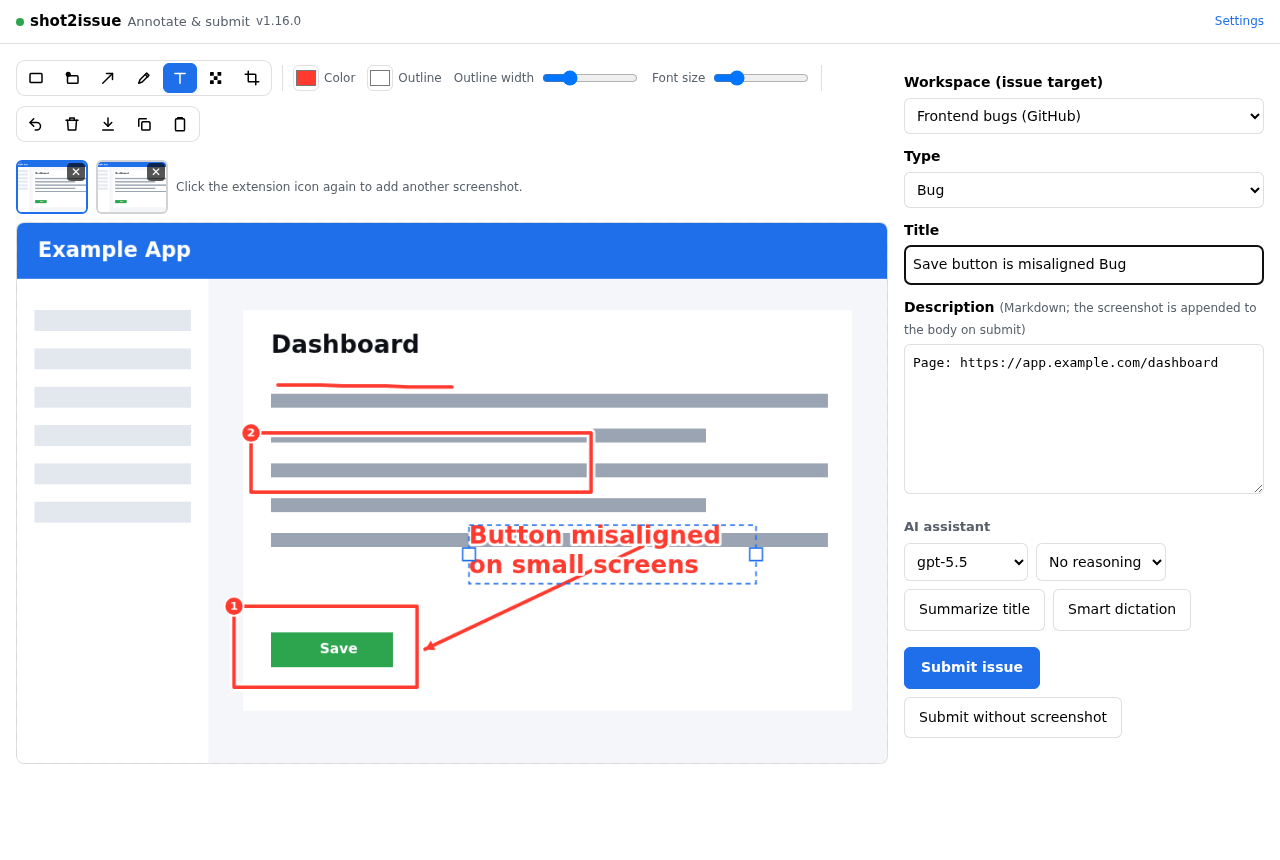
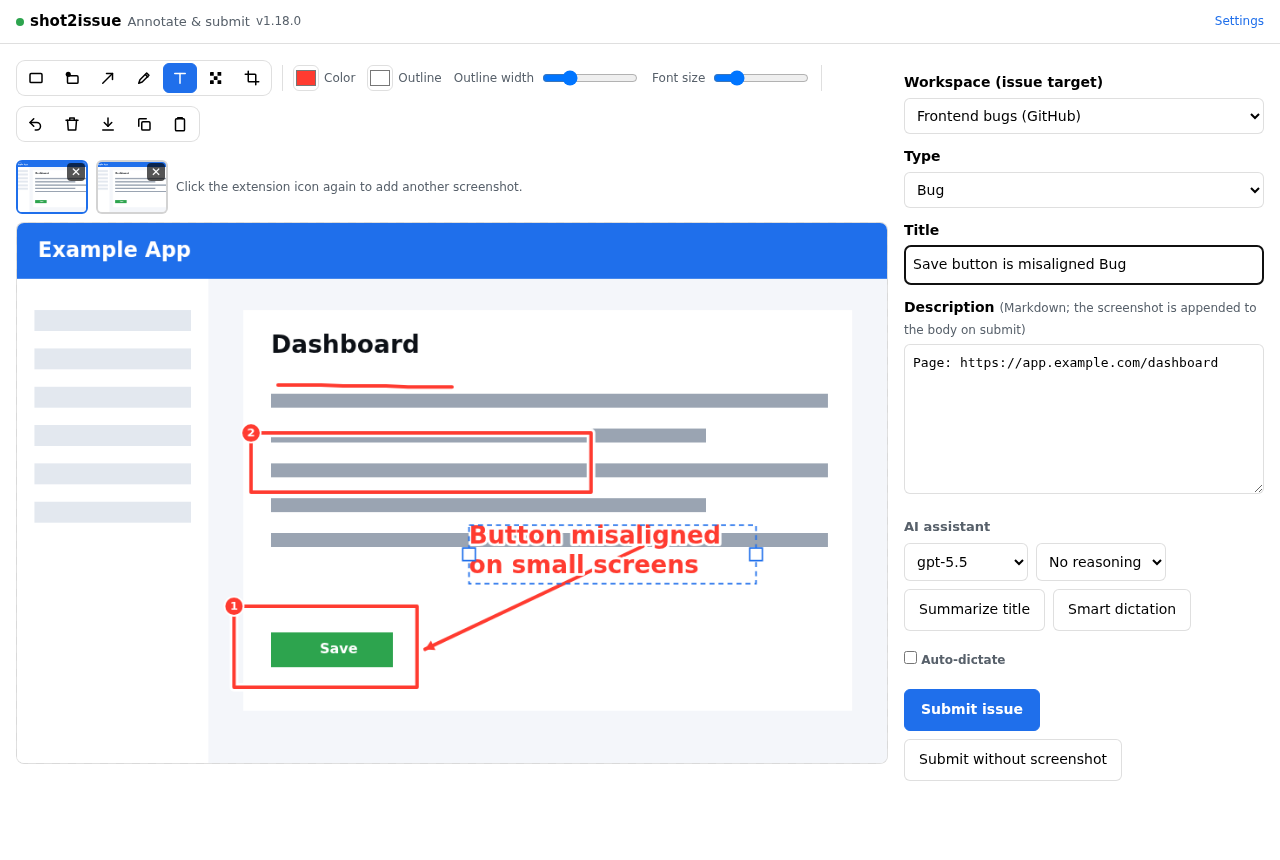
feat: auto-dictate, dictation language, commit-on-blur for the right column, and a popup first-click fix (v1.18.0)
Editor:
- "Auto-dictate" checkbox next to Smart dictation (remembered): when on, opening the
  dictation dialog starts recording immediately.
- Clicking anything in the right column now commits pending canvas edits first (flush an
  in-progress text box, deselect the active annotation) so nothing is left half-edited.
- The Generate button is disabled while the dictation box is empty.

Settings:
- New "Dictation language" picker (50+ Whisper languages + Auto-detect); the chosen
  language is sent to transcription for better accuracy. 'auto' lets the model detect.

Popup:
- Fixed "have to click twice": click listeners were bound only after an async config load,
  so the first click hit nothing. They are now bound synchronously.

Tests: 63 unit, 68 smoke. Screenshots regenerated.

Changed region(s): [[0.6875, 0.7256, 0.875, 0.907]]

diff --git a/src/editor.ts b/src/editor.ts
@@ -73,6 +73,7 @@ const els = {
   complaintGenerate: $('complaintGenerate') as HTMLButtonElement,
   complaintStatus: $('complaintStatus'),
   aiReasoning: $('aiReasoning') as HTMLSelectElement,
+  autoDictate: $('autoDictate') as HTMLInputElement,
   aiBubble: $('aiBubble'),
   aiBubbleStatus: $('aiBubbleStatus'),
   aiBubbleThink: $('aiBubbleThink'),
@@ -87,6 +88,17 @@ const els = {
 };
 
 els.openOptions.addEventListener('click', () => chrome.runtime.openOptionsPage());
+
+// Interacting with anything in the right column commits any pending canvas edit first (flush an
+// in-progress text box, deselect the active annotation) so nothing is left half-edited.
+$('formCol').addEventListener(
+  'mousedown',
+  () => {
+    commitTextIfAny();
+    deselect();
+  },
+  true
+);
 
 // ---- State ----
 let config!: Config;
@@ -157,6 +169,7 @@ async function init(): Promise<void> {
   els.strokeWidth.value = String(prefs.strokeWidth);
   els.width.value = String(prefs.width);
   els.fontSize.value = String(prefs.fontSize);
+  els.autoDictate.checked = !!config.autoDictate;
   applyToolControls();
   // Move toolbar button titles to data-tip so they render as styled hover tooltips.
   document.querySelectorAll('#toolbar .tool[title], #toolbar .act[title]').forEach((el) => {
@@ -383,6 +396,10 @@ els.aiReasoning.addEventListener('change', () => {
   config.aiReasoning = els.aiReasoning.value; // reasoning effort is shared with Settings
   void patchConfig({ aiReasoning: config.aiReasoning });
 });
+els.autoDictate.addEventListener('change', () => {
+  config.autoDictate = els.autoDictate.checked; // remembered: auto-start dictation on open
+  void patchConfig({ autoDictate: config.autoDictate });
+});
 
 // ---- Complaint modal: type or dictate → transcribe → AI writes title + body ----
 // The modal content is NOT cleared between opens (within the page), and Generate can be run
@@ -398,7 +415,14 @@ function openComplaintModal(): void {
   els.complaintModal.classList.remove('hidden');
   clampPanelIntoView(els.complaintModal); // a prior drag may have left it off the (now smaller) viewport
   setComplaintStatus('');
+  updateComplaintGenerate();
   setTimeout(() => els.complaintText.focus(), 0);
+  if (config.autoDictate && !recording) void startDictation(); // auto-start recording when enabled
+}
+
+/** Disable the Generate button while the dictation box is empty (nothing to generate from). */
+function updateComplaintGenerate(): void {
+  els.complaintGenerate.disabled = !els.complaintText.value.trim();
 }
 
 /** Keep a fixed-position panel inside the viewport (only if it was dragged to absolute left/top). */
@@ -476,11 +500,13 @@ if (complaintInner && typeof ResizeObserver !== 'undefined') {
 }
 
 // Record → transcribe → append into the text box (you can dictate several times + edit).
-els.complaintRecord.addEventListener('click', async () => {
-  if (recording) {
-    stopRecording();
-    return;
-  }
+els.complaintRecord.addEventListener('click', () => {
+  if (recording) stopRecording();
+  else void startDictation();
+});
+
+async function startDictation(): Promise<void> {
+  if (recording) return;
   let stream: MediaStream;
   try {
     stream = await navigator.mediaDevices.getUserMedia({ audio: true });
@@ -501,7 +527,7 @@ els.complaintRecord.addEventListener('click', async () => {
   recording = true;
   els.complaintRecord.classList.add('recording');
   els.complaintRecord.textContent = t('complaintRecordStop');
-});
+}
 
 function stopRecording(): void {
   recording = false;
@@ -533,8 +559,9 @@ async function transcribeIntoBox(blob: Blob): Promise<void> {
   try {
     setComplaintStatus('');
     const prompt = (config.aiVocabulary || []).join(', '); // dictionary terms bias recognition
-    const transcript = (await transcribeAudio(blob, { prompt })).trim();
+    const transcript = (await transcribeAudio(blob, { prompt, language: config.dictationLang })).trim();
     if (transcript) insertAtCursor(els.complaintText, transcript); // at the caret, never clearing
+    updateComplaintGenerate();
     bubbleDone();
   } catch (e) {
     bubbleFail(t('complaintFailed', [errMsg(e)]));
@@ -545,8 +572,10 @@ async function transcribeIntoBox(blob: Blob): Promise<void> {
 
 els.complaintClear.addEventListener('click', () => {
   els.complaintText.value = '';
+  updateComplaintGenerate();
   els.complaintText.focus();
 });
+els.complaintText.addEventListener('input', updateComplaintGenerate);
 
 // Generate the issue title + body from the text box content + the screenshots. Repeatable.
 // ---- Streaming AI generation: a status bubble that points at the active button ----

diff --git a/src/options.ts b/src/options.ts
@@ -74,6 +74,7 @@ const els = {
   aiSignOut: $('aiSignOut') as HTMLButtonElement,
   aiStatus: $('aiStatus'),
   aiReasoning: $('aiReasoning') as HTMLSelectElement,
+  dictationLang: $('dictationLang') as HTMLSelectElement,
   aiTitlePrompt: $('aiTitlePrompt') as HTMLTextAreaElement,
   aiPromptRestore: $('aiPromptRestore') as HTMLButtonElement,
   aiComplaintPrompt: $('aiComplaintPrompt') as HTMLTextAreaElement,
@@ -444,6 +445,38 @@ els.newVocab.addEventListener('keydown', (e) => {
   }
 });
 
+// ---- Dictation language (whisper language hint; 'auto' lets the model detect) ----
+// Major Whisper-supported languages (code → native name); 'auto' covers anything else.
+const DICTATION_LANGS: Array<[string, string]> = [
+  ['en', 'English'], ['zh', '中文'], ['ja', '日本語'], ['ko', '한국어'], ['es', 'Español'], ['fr', 'Français'],
+  ['de', 'Deutsch'], ['ru', 'Русский'], ['pt', 'Português'], ['it', 'Italiano'], ['nl', 'Nederlands'],
+  ['tr', 'Türkçe'], ['pl', 'Polski'], ['uk', 'Українська'], ['ar', 'العربية'], ['hi', 'हिन्दी'],
+  ['id', 'Bahasa Indonesia'], ['vi', 'Tiếng Việt'], ['th', 'ไทย'], ['sv', 'Svenska'], ['da', 'Dansk'],
+  ['nb', 'Norsk'], ['fi', 'Suomi'], ['cs', 'Čeština'], ['el', 'Ελληνικά'], ['he', 'עברית'], ['ro', 'Română'],
+  ['hu', 'Magyar'], ['ms', 'Bahasa Melayu'], ['ca', 'Català'], ['fa', 'فارسی'], ['sk', 'Slovenčina'],
+  ['hr', 'Hrvatski'], ['bg', 'Български'], ['sr', 'Српски'], ['lt', 'Lietuvių'], ['lv', 'Latviešu'],
+  ['et', 'Eesti'], ['sl', 'Slovenščina'], ['ta', 'தமிழ்'], ['te', 'తెలుగు'], ['ur', 'اردو'], ['bn', 'বাংলা'],
+  ['mr', 'मराठी'], ['fil', 'Filipino'], ['af', 'Afrikaans'], ['sw', 'Kiswahili'], ['is', 'Íslenska'],
+  ['cy', 'Cymraeg'], ['hy', 'Հայերեն'], ['az', 'Azərbaycan'], ['kk', 'Қазақ'], ['gl', 'Galego'], ['eu', 'Euskara'],
+];
+function renderDictationLangs(): void {
+  els.dictationLang.innerHTML = '';
+  const auto = document.createElement('option');
+  auto.value = 'auto';
+  auto.textContent = t('dictationAuto');
+  els.dictationLang.appendChild(auto);
+  for (const [code, name] of DICTATION_LANGS) {
+    const o = document.createElement('option');
+    o.value = code;
+    o.textContent = `${name} (${code})`;
+    els.dictationLang.appendChild(o);
+  }
+  els.dictationLang.value = draft.dictationLang || 'auto';
+}
+els.dictationLang.addEventListener('change', () => {
+  draft.dictationLang = els.dictationLang.value;
+});
+
 // ---- Language (applies immediately) ----
 els.lang.addEventListener('change', () => {
   draft.lang = SUPPORTED_LANGS.includes(els.lang.value) ? els.lang.value : 'en';
@@ -452,6 +485,7 @@ els.lang.addEventListener('change', () => {
   renderAccounts();
   renderWorkspaces(); // re-render dynamically built content in the new language
   renderTypes();
+  renderDictationLangs(); // the "Auto-detect" label follows the UI language
   void renderAi();
   // If a prompt is not customized, show the new language's default.
   if (!draft.aiTitlePrompt) els.aiTitlePrompt.value = t('aiTitlePromptDefault');
@@ -748,6 +782,8 @@ els.importFile.addEventListener('change', async () => {
       aiComplaintPrompt: typeof obj.aiComplaintPrompt === 'string' ? obj.aiComplaintPrompt : draft.aiComplaintPrompt,
       aiVocabulary: Array.isArray(obj.aiVocabulary) ? (obj.aiVocabulary as string[]) : draft.aiVocabulary,
       aiReasoning: typeof obj.aiReasoning === 'string' ? obj.aiReasoning : draft.aiReasoning,
+      dictationLang: typeof obj.dictationLang === 'string' ? obj.dictationLang : draft.dictationLang,
+      autoDictate: typeof obj.autoDictate === 'boolean' ? obj.autoDictate : draft.autoDictate,
       closeAfterSubmit: typeof obj.closeAfterSubmit === 'boolean' ? obj.closeAfterSubmit : draft.closeAfterSubmit,
       shortcutEnabled: typeof obj.shortcutEnabled === 'boolean' ? obj.shortcutEnabled : draft.shortcutEnabled,
       lastWorkspaceId: typeof obj.lastWorkspaceId === 'string' ? obj.lastWorkspaceId : '',
@@ -761,6 +797,7 @@ els.importFile.addEventListener('change', async () => {
     renderWorkspaces();
     renderTypes();
     renderVocab();
+    renderDictationLangs();
     await setConfig(draft);
     status(t('imported'), 'ok');
   } catch (e) {
@@ -791,6 +828,7 @@ async function init(): Promise<void> {
   renderWorkspaces();
   renderTypes();
   renderVocab();
+  renderDictationLangs();
   void renderAi();
   showTab(await getOptionsTab());
 }

diff --git a/src/popup.ts b/src/popup.ts
@@ -50,29 +50,31 @@ function trigger(type: 'capture-web'): void {
   window.close();
 }
 
+// Bind clicks SYNCHRONOUSLY so the very first click always works. (Previously these were bound
+// after `await getConfig()`, so a click during that async gap hit nothing — hence "click twice".)
+$('optWeb').addEventListener('click', () => trigger('capture-web'));
+$('optPaste').addEventListener('click', () => void pasteFromClipboard($('optPaste')));
+$('openSettings').addEventListener('click', () => {
+  chrome.runtime.openOptionsPage();
+  window.close();
+});
+$('setShortcuts').addEventListener('click', () => {
+  void chrome.tabs.create({ url: 'chrome://extensions/shortcuts' });
+  window.close();
+});
+localizeDom(document); // localize immediately (default language); re-localized once config loads
+
 async function init(): Promise<void> {
   const config = await getConfig();
   setLanguage(config.lang);
   localizeDom(document);
-
-  // Show the bound shortcut next to each option, if the user has set one.
+  // Show the bound shortcut next to the tab-capture option, if the user has set one.
   try {
     const cmds = await chrome.commands.getAll();
     showShortcut('scWeb', cmds.find((c) => c.name === 'capture')?.shortcut);
   } catch {
     /* commands API unavailable; show no shortcuts */
   }
-
-  $('optWeb').addEventListener('click', () => trigger('capture-web'));
-  $('optPaste').addEventListener('click', () => void pasteFromClipboard($('optPaste')));
-  $('openSettings').addEventListener('click', () => {
-    chrome.runtime.openOptionsPage();
-    window.close();
-  });
-  $('setShortcuts').addEventListener('click', () => {
-    void chrome.tabs.create({ url: 'chrome://extensions/shortcuts' });
-    window.close();
-  });
 }
 
 void init();

diff --git a/src/lib/i18n.ts b/src/lib/i18n.ts
@@ -230,6 +230,9 @@ const MESSAGES: Record<string, Record<string, string>> = {
     aiReasoningHigh: 'High',
     aiActionsHeading: 'AI assistant',
     strokeWidth: 'Outline width',
+    autoDictate: 'Auto-dictate',
+    dictationLangLabel: 'Dictation language',
+    dictationAuto: 'Auto-detect',
     aiTitleNeedConnect: 'Connect the AI assistant in Settings to use this.',
     aiTitleNeedBody: 'Add a description first so the AI has something to work with.',
     aiTitleFailed: 'AI title failed: {0}',
@@ -483,6 +486,9 @@ const MESSAGES: Record<string, Record<string, string>> = {
     aiReasoningHigh: '高',
     aiActionsHeading: 'AI 助手',
     strokeWidth: '描边粗细',
+    autoDictate: '自动听写',
+    dictationLangLabel: '听写语言',
+    dictationAuto: '自动检测',
     aiTitleNeedConnect: '请先在设置里连接 AI 助手。',
     aiTitleNeedBody: '请先填写描述，AI 才能据此生成。',
     aiTitleFailed: 'AI 生成标题失败：{0}',
@@ -735,6 +741,9 @@ const MESSAGES: Record<string, Record<string, string>> = {
     aiReasoningHigh: '高',
     aiActionsHeading: 'AI アシスタント',
     strokeWidth: '縁取りの太さ',
+    autoDictate: '自動文字起こし',
+    dictationLangLabel: '文字起こしの言語',
+    dictationAuto: '自動検出',
     aiTitleNeedConnect: '設定で AI アシスタントを接続してください。',
     aiTitleNeedBody: 'まず説明を入力してください。AI がそれを基に生成します。',
     aiTitleFailed: 'AI タイトル生成に失敗しました：{0}',

diff --git a/src/lib/ai.ts b/src/lib/ai.ts
@@ -669,7 +669,7 @@ async function healModelFor(auth: AiAuth, override?: string): Promise<{ auth: Ai
 }
 
 /** Transcribe recorded audio using the ChatGPT subscription (no API key). */
-export async function transcribeAudio(blob: Blob, opts?: { filename?: string; prompt?: string }): Promise<string> {
+export async function transcribeAudio(blob: Blob, opts?: { filename?: string; prompt?: string; language?: string }): Promise<string> {
   let auth = await getAiAuth();
   if (!auth) throw new Error('Not connected. Sign in to the AI assistant in Settings.');
   auth = await ensureFreshAuth(auth);
@@ -678,6 +678,8 @@ export async function transcribeAudio(blob: Blob, opts?: { filename?: string; pr
   fd.append('model', TRANSCRIBE_MODEL);
   // A dictionary of names/jargon biases the recognizer toward correct spellings.
   if (opts?.prompt && opts.prompt.trim()) fd.append('prompt', opts.prompt.trim());
+  // An explicit language (ISO-639-1) improves accuracy; 'auto' lets the model detect it.
+  if (opts?.language && opts.language !== 'auto') fd.append('language', opts.language);
   const res = await fetch(TRANSCRIBE_URL, { method: 'POST', headers: authHeaders(auth), body: fd });
   const text = await res.text();
   if (!res.ok) {

diff --git a/src/editor.css b/src/editor.css
@@ -219,6 +219,8 @@ button.ai-busy::before { content: "■"; font-size: 9px; margin-right: 6px; vert
 .ai-actions-head { font-weight: 600; font-size: 13px; color: var(--muted); margin: 16px 0 6px; }
 .ai-actions { display: flex; flex-direction: column; gap: 8px; align-items: flex-start; margin-top: 0; }
 .ai-actions .ai-row { display: flex; gap: 8px; flex-wrap: wrap; align-items: center; }
+.auto-dictate { display: inline-flex; align-items: center; gap: 5px; font-size: 12px; color: var(--muted); cursor: pointer; }
+.auto-dictate input { margin: 0; }
 .ai-actions select#aiReasoning { width: auto; max-width: 130px; }
 
 /* Floating crop confirm buttons (positioned next to the crop box in editor.ts) */

diff --git a/src/editor.html b/src/editor.html
@@ -60,7 +60,7 @@
     </div>
 
     <!-- Right: description + submit -->
-    <div class="form-col">
+    <div class="form-col" id="formCol">
       <label for="workspace" data-i18n="fieldWorkspace"></label>
       <select id="workspace"></select>
 
@@ -88,6 +88,7 @@
         <div class="ai-row">
           <button id="aiTitle" class="ghost" data-i18n="aiTitle" data-i18n-title="aiTitleTitle"></button>
           <button id="complaint" class="ghost" data-i18n="complaint" data-i18n-title="complaintTitle"></button>
+          <label class="auto-dictate"><input type="checkbox" id="autoDictate" /> <span data-i18n="autoDictate"></span></label>
         </div>
       </div>
 

diff --git a/src/lib/storage.ts b/src/lib/storage.ts
@@ -33,6 +33,10 @@ const DEFAULT_CONFIG: Config = {
   aiVocabulary: [],
   // Reasoning effort for AI generation ('off' | 'low' | 'medium' | 'high'). Off by default.
   aiReasoning: 'off',
+  // Auto-start dictation when the Smart-dictation dialog opens.
+  autoDictate: false,
+  // Dictation language hint ('auto' = let the model detect it).
+  dictationLang: 'auto',
   // Close the editor and switch back to the captured tab after a successful submit.
   closeAfterSubmit: true,
   // Allow a keyboard shortcut (configured at chrome://extensions/shortcuts) to capture. Off by default.

diff --git a/src/lib/types.ts b/src/lib/types.ts
@@ -50,6 +50,10 @@ export interface Config {
   aiVocabulary: string[];
   /** Reasoning effort for AI generation: 'off' | 'low' | 'medium' | 'high'. */
   aiReasoning: string;
+  /** Auto-start dictation (recording) when the Smart-dictation dialog opens. */
+  autoDictate: boolean;
+  /** Dictation/transcription language hint (ISO-639-1, or 'auto' to let the model detect). */
+  dictationLang: string;
   closeAfterSubmit: boolean;
   shortcutEnabled: boolean;
   lastWorkspaceId: string;

diff --git a/src/options.html b/src/options.html
@@ -136,6 +136,8 @@
       <option value="medium" data-i18n="aiReasoningMedium"></option>
       <option value="high" data-i18n="aiReasoningHigh"></option>
     </select>
+    <label for="dictationLang" data-i18n="dictationLangLabel"></label>
+    <select id="dictationLang" style="max-width: 240px;"></select>
     <label for="aiTitlePrompt" data-i18n="aiPromptLabel"></label>
     <p class="hint" data-i18n="aiPromptHint"></p>
     <textarea id="aiTitlePrompt" rows="4"></textarea>
